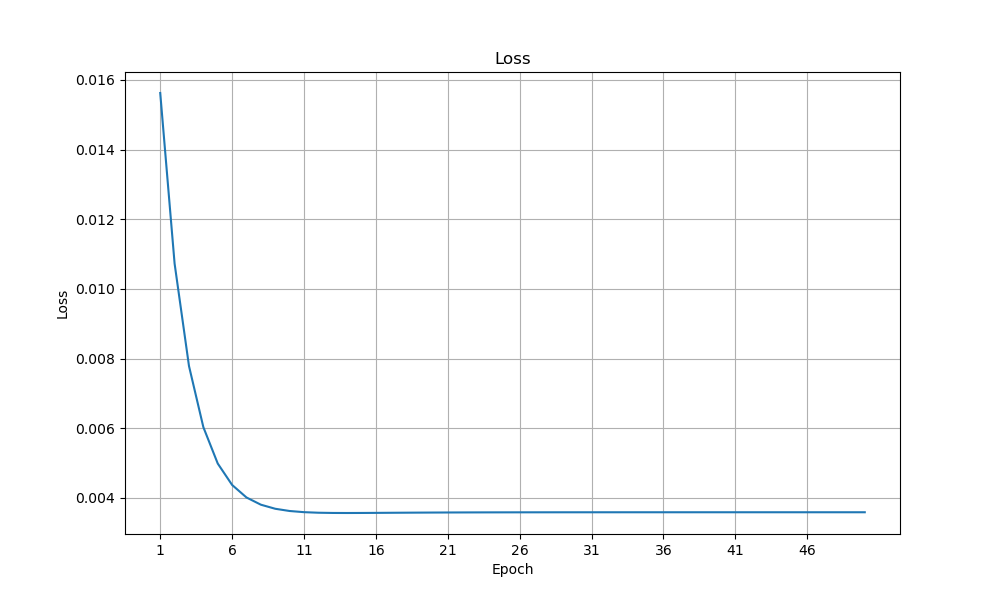
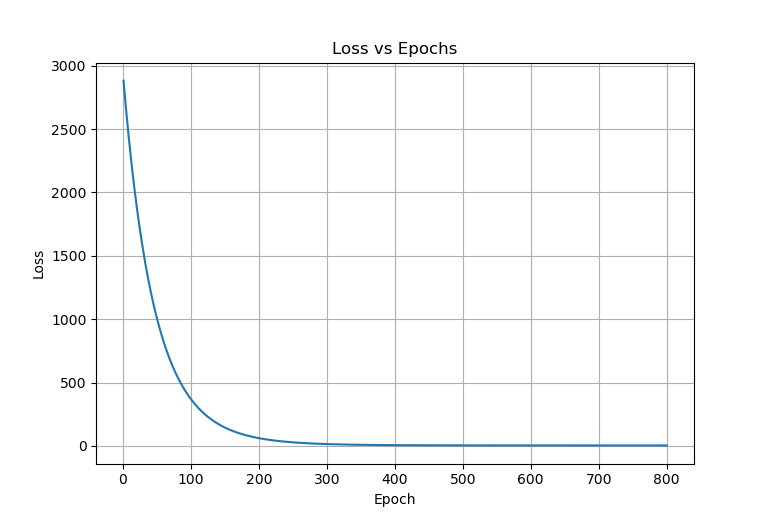
Exponential decay learning rate

diff --git a/test/src/main.cpp b/test/src/main.cpp
@@ -3,29 +3,82 @@
 #include <loss/Loss.h>
 #include <regression/Linear.h>
 
-// Input data
-const lr::Matrix trainingInput = {
-    { 1, 0.5, 0.5, 0.5 },
-    { 1, 0.7, 0.3, 0.6 },
-    { 1, 0.8, 0.9, 0.6 },
-    { 1, 0.3, 0.2, 0.4 }
+/*
+Stock price forecast
+
+| Income (millions USD) | Earnings (millions USD) | P/E Ratio | P/B Ratio | Interest Rate (%)  | Inflation Rate (%) | Closing Price (USD) |
+|-----------------------|-------------------------|-----------|-----------|--------------------|--------------------|---------------------|
+| 100                   | 20                      | 15        | 2.5       | 3.5                | 2                  | 50                  |
+| 120                   | 25                      | 16        | 2.7       | 4.0                | 2.2                | 55                  |
+| 110                   | 22                      | 14        | 2.4       | 3.7                | 2.1                | 52                  |
+| 130                   | 28                      | 17        | 2.9       | 4.2                | 2.4                | 58                  |
+| 115                   | 24                      | 15.5      | 2.6       | 3.8                | 2.3                | 54                  |
+| 105                   | 21                      | 14.5      | 2.3       | 3.6                | 2.0                | 51                  |
+| 125                   | 26                      | 16.5      | 2.8       | 4.1                | 2.3                | 56                  |
+| 135                   | 30                      | 18        | 3.0       | 4.3                | 2.5                | 60                  |
+| 112                   | 23                      | 15        | 2.5       | 3.6                | 2.1                | 53                  |
+| 128                   | 27                      | 17.5      | 2.7       | 4.0                | 2.2                | 57                  |
+| 95                    | 18                      | 14        | 2.3       | 3.2                | 1.8                | 48                  |
+| 118                   | 24                      | 16.2      | 2.6       | 3.9                | 2.0                | 54                  |
+| 107                   | 20                      | 13.5      | 2.2       | 3.4                | 1.9                | 50                  |
+| 125                   | 26                      | 17.2      | 2.7       | 4.1                | 2.2                | 58                  |
+| 112                   | 22                      | 15        | 2.4       | 3.7                | 2.1                | 52                  |
+| 102                   | 19                      | 13.8      | 2.1       | 3.3                | 1.7                | 49                  |
+| 122                   | 25                      | 16.7      | 2.8       | 4.0                | 2.3                | 55                  |
+| 130                   | 28                      | 18.5      | 3.1       | 4.3                | 2.4                | 60                  |
+| 108                   | 21                      | 14.2      | 2.5       | 3.5                | 1.8                | 51                  |
+| 127                   | 27                      | 17.8      | 2.9       | 4.2                | 2.1                | 57                  |
+
+*/
+
+lr::Matrix input = {
+    { 1, 100, 20, 15  , 2.5, 3.5, 2   },
+    { 1, 120, 25, 16  , 2.7, 4.0, 2.2 },
+    { 1, 110, 22, 14  , 2.4, 3.7, 2.1 },
+    { 1, 130, 28, 17  , 2.9, 4.2, 2.4 },
+    { 1, 115, 24, 15.5, 2.6, 3.8, 2.3 },
+    { 1, 105, 21, 14.5, 2.3, 3.6, 2.0 },
+    { 1, 125, 26, 16.5, 2.8, 4.1, 2.3 },
+    { 1, 135, 30, 18  , 3.0, 4.3, 2.5 },
+    { 1, 112, 23, 15  , 2.5, 3.6, 2.1 },
+    { 1, 128, 27, 17.5, 2.7, 4.0, 2.2 },
+    { 1, 95 , 18, 14  , 2.3, 3.2, 1.8 },
+    { 1, 118, 24, 16.2, 2.6, 3.9, 2.0 },
+    { 1, 107, 20, 13.5, 2.2, 3.4, 1.9 },
+    { 1, 125, 26, 17.2, 2.7, 4.1, 2.2 },
+    { 1, 112, 22, 15  , 2.4, 3.7, 2.1 },
+    { 1, 102, 19, 13.8, 2.1, 3.3, 1.7 },
+    { 1, 122, 25, 16.7, 2.8, 4.0, 2.3 },
+    { 1, 130, 28, 18.5, 3.1, 4.3, 2.4 },
+    { 1, 108, 21, 14.2, 2.5, 3.5, 1.8 },
+    { 1, 127, 27, 17.8, 2.9, 4.2, 2.1 }
 };
 
-const lr::Vector trainingOutput = { 0.5, 0.65, 0.80, 0.60 };
+lr::Vector output = { 50, 55, 52, 58, 54, 51, 56, 60, 53, 57, 48, 54, 50, 58, 52, 49, 55, 60, 51, 57 };
 
 void training() {
 
-    lr::LinearRegression linearRegression(trainingInput, trainingOutput);
+    lr::LinearRegression linearRegression(input, output);
 
     // Linear regression training
-    int epochs = 50;
-    double learningRate = 0.001;
+    int epochs = 800;
+    double learningRate = 1e-10;
 
+    // Exponential decay (OPTIONAL. Improves training)
+    lr::LinearRegression::ExponentialDecay exponentialDecay(learningRate, 0.75, 225);
+    linearRegression.setExponentialDecay(exponentialDecay);
+
+    // Train
     linearRegression.train(epochs, learningRate);
 
-    // Linear regression prediction
-    lr::Vector prediction = linearRegression.predict(trainingInput); // Predict with training data to see if the prediction matches the output
+    // Show loss
+    for(const auto& l : linearRegression.getLoss())
+        std::cout  << "Loss: " << l << std::endl;
 
+    // Prediction
+    lr::Vector prediction = linearRegression.predict(input); // Predict with training data to see if the prediction matches the output
+
+    // Show prediction
     std::cout << "Prediction: ";
     for(auto& pred : prediction) std::cout << pred << " ";
     std::cout << std::endl;
@@ -37,18 +90,23 @@ void training() {
 void loadModel() {
 
     // Load model
-    lr::LinearRegression linearRegression2;
-    linearRegression2.load("/home/morcillosanz/Desktop/");
+    lr::LinearRegression linearRegression;
+    linearRegression.load("/home/morcillosanz/Desktop/");
 
-    lr::Vector prediction = linearRegression2.predict(trainingInput);
+    // Prediction
+    lr::Vector prediction = linearRegression.predict(input);
 
+    // Show prediction
     std::cout << "Prediction: ";
     for(auto& pred : prediction) std::cout << pred << " ";
     std::cout << std::endl;
 }
 
+
 int main() {
 
     training();
+    loadModel();
+
     return 0;
 }

diff --git a/src/regression/Linear.cpp b/src/regression/Linear.cpp
@@ -15,12 +15,13 @@ namespace lr
 {
 
 LinearRegression::LinearRegression(const Matrix& _input, const Vector& _y) 
-    : input(_input), y(_y) {
+    : input(_input), y(_y), hasExponentialDecay(false) {
 
     size_t n = y.size();
     size_t k = input[0].size();
 
-    for(size_t i = 0; i < n; i ++) epsilon.push_back((std::rand() % 10) / 10.0);
+    for(size_t i = 0; i < n; i ++) 
+        epsilon.push_back((std::rand() % 10) / 10.0);
 
     for(size_t i = 0; i < k; i ++) {
         if(k > 1) theta.push_back(1 / (k - 1));
@@ -30,12 +31,16 @@ LinearRegression::LinearRegression(const Matrix& _input, const Vector& _y)
 }
 LinearRegression::LinearRegression(const LinearRegression& linearRegression) 
     : input(linearRegression.input), y(linearRegression.y), 
-    theta(linearRegression.theta), epsilon(linearRegression.epsilon) {
+    theta(linearRegression.theta), epsilon(linearRegression.epsilon),
+    exponentialDecay(linearRegression.exponentialDecay), 
+    hasExponentialDecay(linearRegression.hasExponentialDecay) {
 }
 
 LinearRegression::LinearRegression(LinearRegression&& linearRegression) noexcept
     : input(std::move(linearRegression.input)), y(std::move(linearRegression.y)), 
-    theta(std::move(linearRegression.theta)), epsilon(std::move(linearRegression.epsilon)) {
+    theta(std::move(linearRegression.theta)), epsilon(std::move(linearRegression.epsilon)),
+    exponentialDecay(std::move(linearRegression.exponentialDecay)),
+    hasExponentialDecay(linearRegression.hasExponentialDecay) {
 }
 
 LinearRegression& LinearRegression::operator=(const LinearRegression& linearRegression) {
@@ -44,6 +49,9 @@ LinearRegression& LinearRegression::operator=(const LinearRegression& linearRegr
     y = linearRegression.y;
     theta = linearRegression.theta;
     epsilon = linearRegression.epsilon;
+    exponentialDecay = linearRegression.exponentialDecay;
+    hasExponentialDecay = linearRegression.hasExponentialDecay;
+
     return *this;
 }
 
@@ -53,7 +61,15 @@ LinearRegression& LinearRegression::operator=(LinearRegression&& linearRegressio
     y = std::move(linearRegression.y);
     theta = std::move(linearRegression.theta);
     epsilon = std::move(linearRegression.epsilon);
+    exponentialDecay = std::move(linearRegression.exponentialDecay);
+    hasExponentialDecay = linearRegression.hasExponentialDecay;
+
     return *this;
+}
+
+void LinearRegression::setExponentialDecay(const ExponentialDecay& exponentialDecay) {
+    this->exponentialDecay = exponentialDecay;
+    hasExponentialDecay = true;
 }
 
 void LinearRegression::train(int epochs, double learningRate) {
@@ -68,6 +84,9 @@ void LinearRegression::train(int epochs, double learningRate) {
         // Gradient descent
         double _loss = mse.evaluate(y, pred);
         Vector gradient = mse.gradient(input, y, pred);
+
+        if(hasExponentialDecay) 
+            learningRate = exponentialDecay.getLearningRate(epoch);
 
         for(auto& t : theta) t -= learningRate * gradient[0];
         for(auto& e : epsilon) e -= learningRate * gradient[1];

diff --git a/src/regression/Linear.h b/src/regression/Linear.h
@@ -2,6 +2,7 @@
 
 #include <iostream>
 #include <vector>
+#include <cmath>
 
 #include "loss/Loss.h"
 
@@ -9,11 +10,32 @@ namespace lr
 {
 
 class LinearRegression {
+public:
+    struct ExponentialDecay {
+
+        double initialLearningRate;
+        double decayRate;
+        double decaySteps;
+
+        ExponentialDecay(double _initialLearningRate, double _decayRate, double _decaySteps)
+            : initialLearningRate(_initialLearningRate), decayRate(_decayRate), decaySteps(_decaySteps) { }
+
+        ExponentialDecay() = default;
+        ~ExponentialDecay() = default;
+
+        inline double getLearningRate(double globalStep) {
+            return initialLearningRate * pow(decayRate, globalStep / decaySteps);
+        }
+    };
 private:
     Matrix input;
     Vector y;
+
     Vector theta, epsilon;
     Vector loss;
+
+    ExponentialDecay exponentialDecay;
+    bool hasExponentialDecay;
 public:
     LinearRegression(const Matrix& _input, const Vector& _y);
     LinearRegression(const LinearRegression& linearRegression);
@@ -25,6 +47,8 @@ public:
     LinearRegression& operator=(const LinearRegression& linearRegression);
     LinearRegression& operator=(LinearRegression&& linearRegression) noexcept;
 public:
+
+    void setExponentialDecay(const ExponentialDecay& exponentialDecay);
     void train(int epochs, double learningRate = 0.1);
     Vector predict(const Matrix& input);
 

diff --git a/README.md b/README.md
@@ -4,19 +4,66 @@ relationship between a scalar response and one or more explanatory variables. In
 linear regression, the relationships are modeled using linear predictor functions
 whose unknown model parameters are estimated from the data.
 
+$$\hat{y} = X\theta + \varepsilon$$
+
 [Take a look at the math](Linear_regression.pdf)
 
 ## Features
-* Train the model
-* Predict
-* Plot (`Python` and `matplotlib` needed)
-* Save model
-* Load saved model
+* **Train** the model with gradient descent.
+* **Learning rate adjustment** using exponential decay learning rate schedule.
+* **Predict** using the linear regression.
+* **Plot** (`Python` and `matplotlib` needed) loss function.
+* **Save** the model in order to use it later.
+* **Load** saved model.
 
-# Test
+# Test: Stock price forecast
 
-Ground truth  | Prediction
-------------- | -------------
-0.5 0.65 0.80 0.60  | 0.40 0.71 0.84 0.58
+### Stock data
+| Income (millions USD) | Earnings (millions USD) | P/E Ratio | P/B Ratio | Interest Rate (%)  | Inflation Rate (%) | Closing Price (USD) |
+|-----------------------|-------------------------|-----------|-----------|--------------------|--------------------|---------------------|
+| 100                   | 20                      | 15        | 2.5       | 3.5                | 2                  | 50                  |
+| 120                   | 25                      | 16        | 2.7       | 4.0                | 2.2                | 55                  |
+| 110                   | 22                      | 14        | 2.4       | 3.7                | 2.1                | 52                  |
+| 130                   | 28                      | 17        | 2.9       | 4.2                | 2.4                | 58                  |
+| 115                   | 24                      | 15.5      | 2.6       | 3.8                | 2.3                | 54                  |
+| 105                   | 21                      | 14.5      | 2.3       | 3.6                | 2.0                | 51                  |
+| 125                   | 26                      | 16.5      | 2.8       | 4.1                | 2.3                | 56                  |
+| 135                   | 30                      | 18        | 3.0       | 4.3                | 2.5                | 60                  |
+| 112                   | 23                      | 15        | 2.5       | 3.6                | 2.1                | 53                  |
+| 128                   | 27                      | 17.5      | 2.7       | 4.0                | 2.2                | 57                  |
+| 95                    | 18                      | 14        | 2.3       | 3.2                | 1.8                | 48                  |
+| 118                   | 24                      | 16.2      | 2.6       | 3.9                | 2.0                | 54                  |
+| 107                   | 20                      | 13.5      | 2.2       | 3.4                | 1.9                | 50                  |
+| 125                   | 26                      | 17.2      | 2.7       | 4.1                | 2.2                | 58                  |
+| 112                   | 22                      | 15        | 2.4       | 3.7                | 2.1                | 52                  |
+| 102                   | 19                      | 13.8      | 2.1       | 3.3                | 1.7                | 49                  |
+| 122                   | 25                      | 16.7      | 2.8       | 4.0                | 2.3                | 55                  |
+| 130                   | 28                      | 18.5      | 3.1       | 4.3                | 2.4                | 60                  |
+| 108                   | 21                      | 14.2      | 2.5       | 3.5                | 1.8                | 51                  |
+| 127                   | 27                      | 17.8      | 2.9       | 4.2                | 2.1                | 57                  |
 
-![](img/loss.png)
+### Prediction
+<img align="right" src="img/loss.png"/>
+
+|Ground truth  | Prediction   |
+|------------- | -------------|
+| 50           | 47           |  
+| 55           | 56           |  
+| 52           | 51           |  
+| 58           | 60           |  
+| 54           | 53           |  
+| 51           | 49           |  
+| 56           | 58           |  
+| 60           | 63           |  
+| 53           | 52           |  
+| 57           | 59           |  
+| 48           | 44           |  
+| 54           | 55           |  
+| 50           | 48           |  
+| 58           | 58           |  
+| 52           | 51           |  
+| 49           | 47           |  
+| 55           | 56           |  
+| 60           | 61           |  
+| 51           | 49           |  
+| 57           | 59           |  
